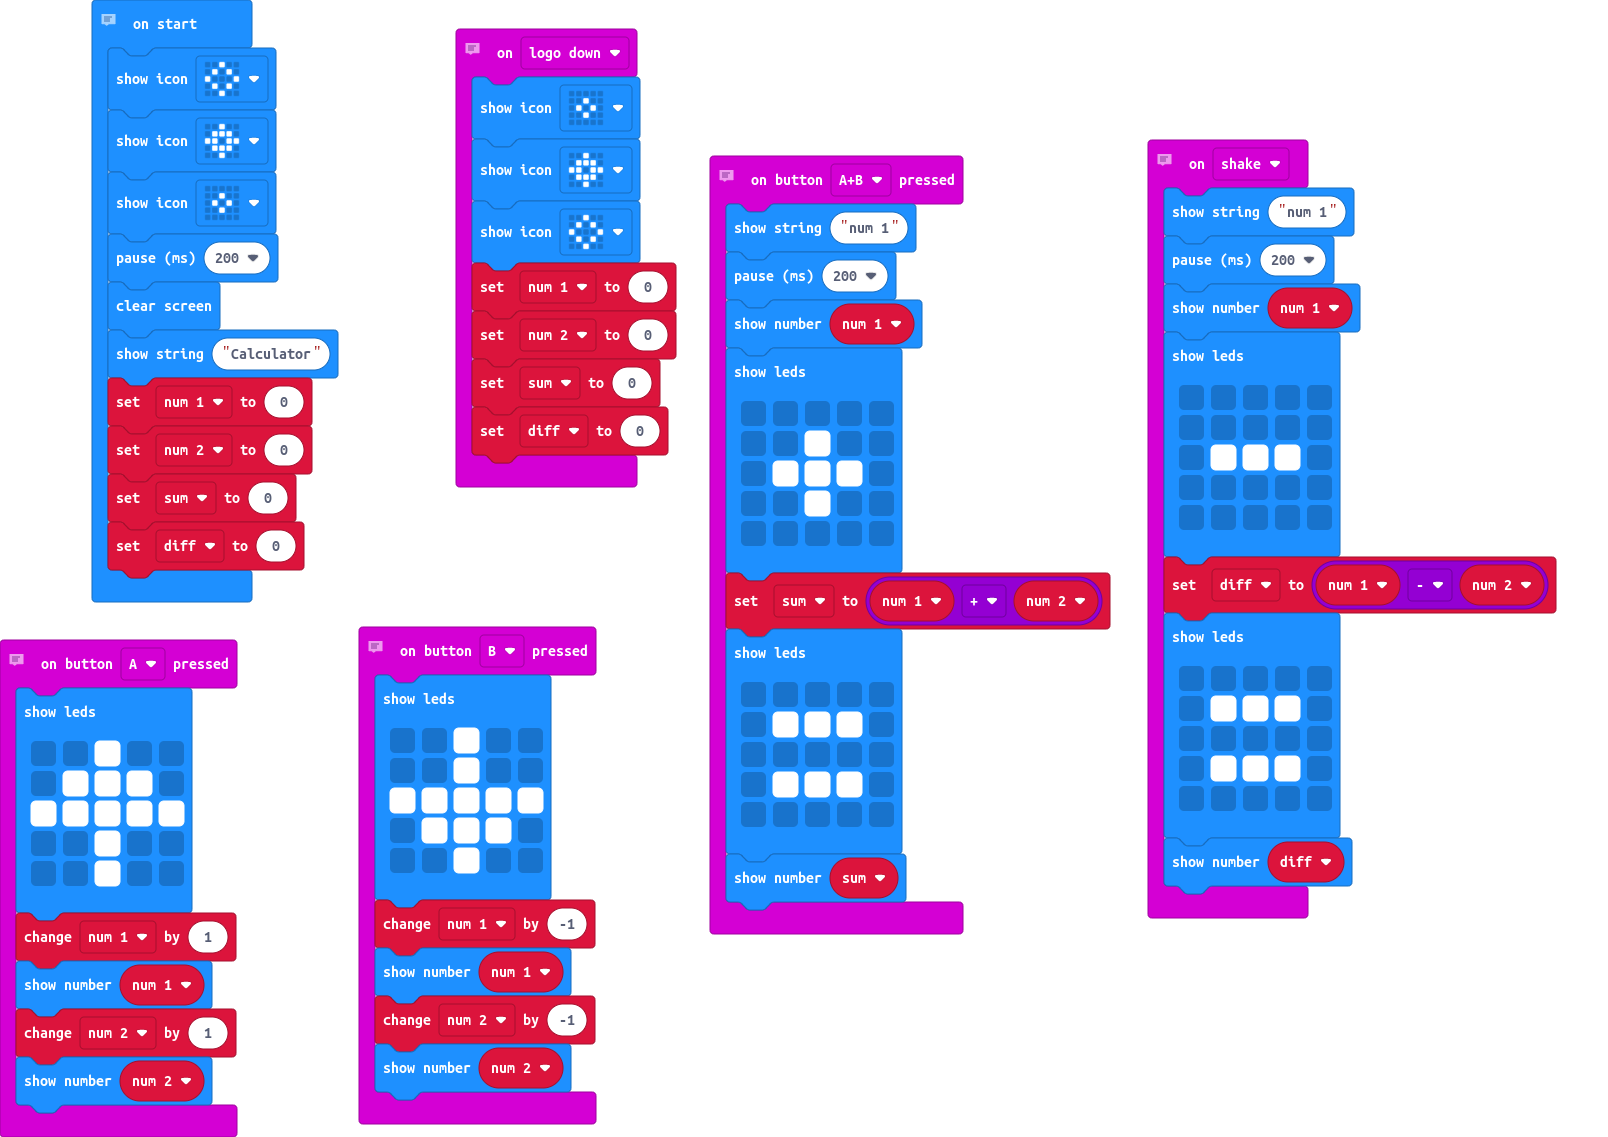
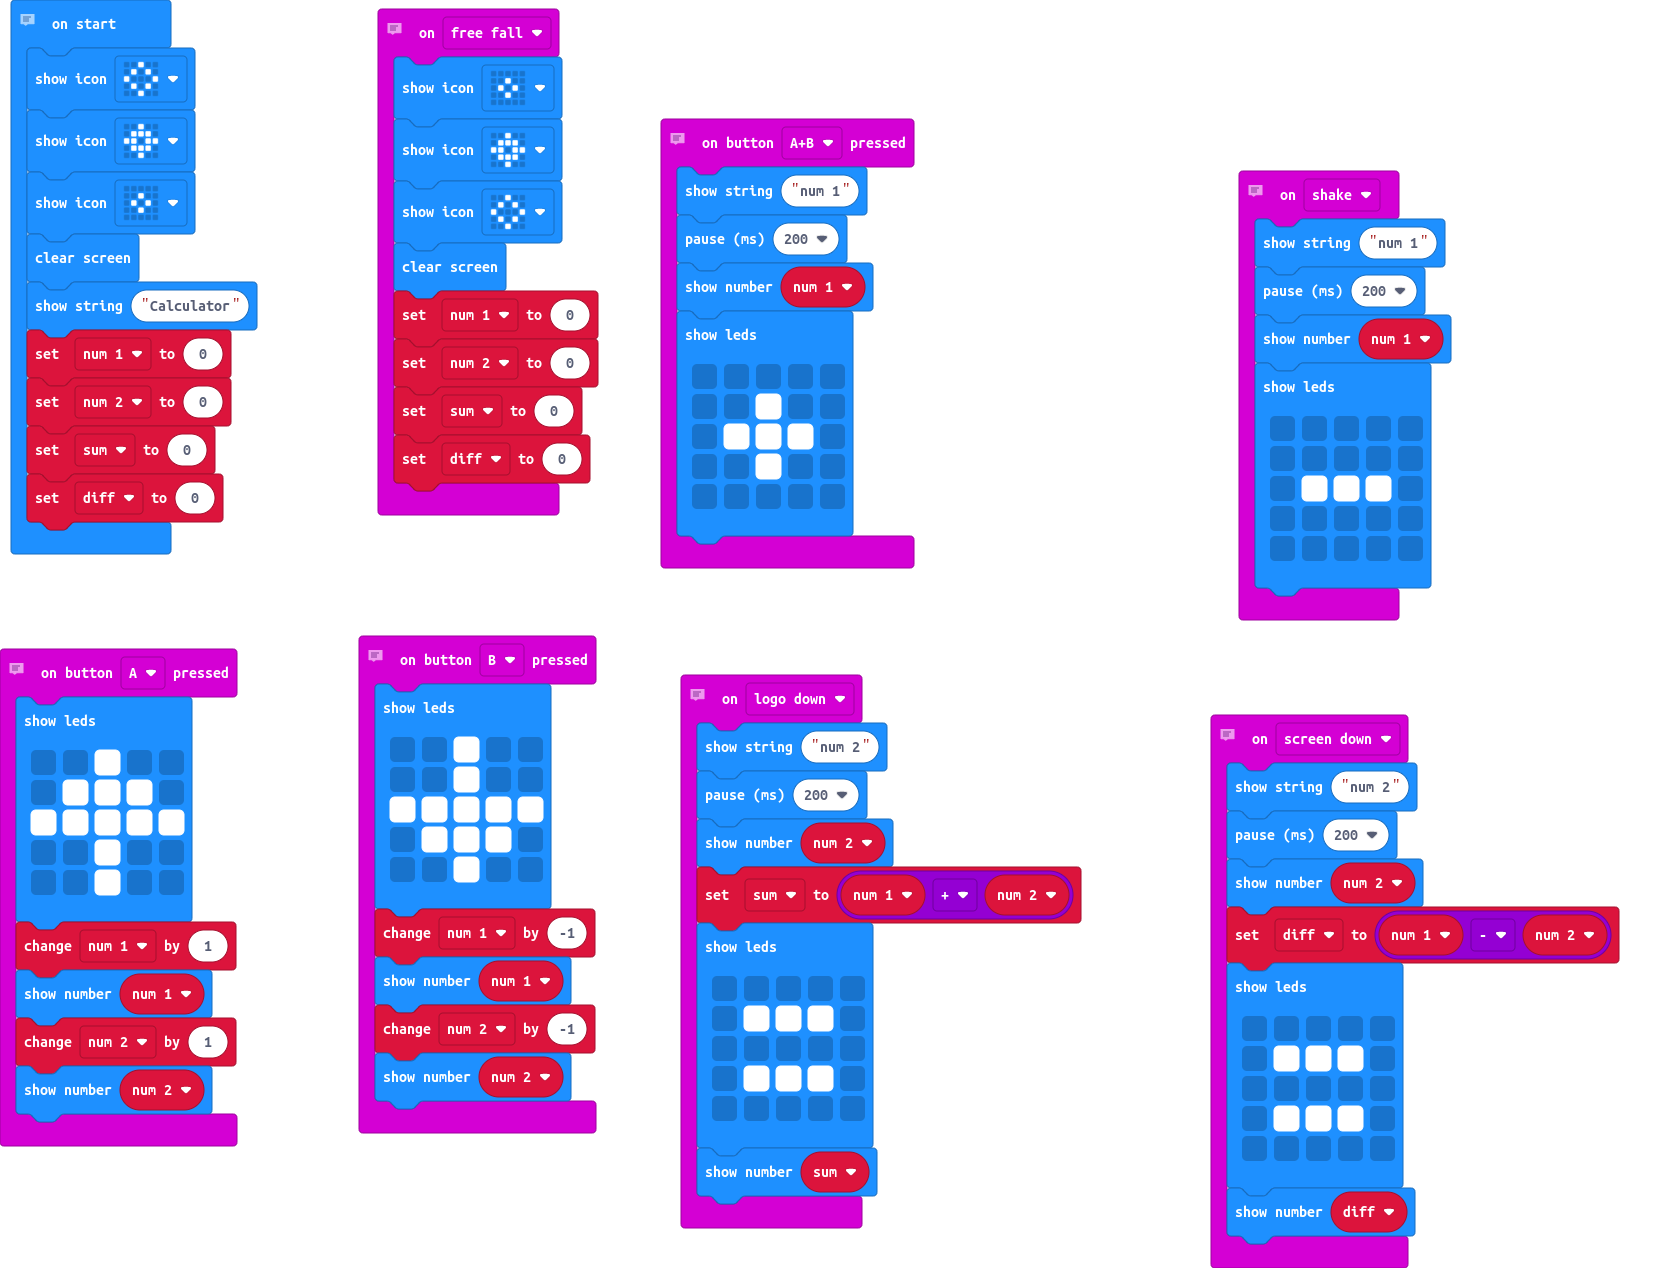
Update main.blocks, main.ts

diff --git a/main.ts b/main.ts
@@ -12,7 +12,33 @@ input.onButtonPressed(Button.A, function () {
     num_2 += 1
     basic.showNumber(num_2)
 })
-// on button A+B, stores 'num 1' then adds 'num 1' with 'num 2'
+// resets program to 0
+input.onGesture(Gesture.FreeFall, function () {
+    basic.showIcon(IconNames.SmallDiamond)
+    basic.showIcon(IconNames.Target)
+    basic.showIcon(IconNames.Diamond)
+    basic.clearScreen()
+    num_1 = 0
+    num_2 = 0
+    sum = 0
+    diff = 0
+})
+// shows 'num 2' then subtracts 'num 1' with 'num 2'
+input.onGesture(Gesture.ScreenDown, function () {
+    basic.showString("num 2")
+    basic.pause(200)
+    basic.showNumber(num_2)
+    diff = num_1 - num_2
+    basic.showLeds(`
+        . . . . .
+        . # # # .
+        . . . . .
+        . # # # .
+        . . . . .
+        `)
+    basic.showNumber(diff)
+})
+// on button A+B, stores 'num 1' 
 input.onButtonPressed(Button.AB, function () {
     basic.showString("num 1")
     basic.pause(200)
@@ -24,15 +50,6 @@ input.onButtonPressed(Button.AB, function () {
         . . # . .
         . . . . .
         `)
-    sum = num_1 + num_2
-    basic.showLeds(`
-        . . . . .
-        . # # # .
-        . . . . .
-        . # # # .
-        . . . . .
-        `)
-    basic.showNumber(sum)
 })
 // on button A, 'num 1' and/or 'num 2' goes up by 1
 input.onButtonPressed(Button.B, function () {
@@ -60,7 +77,13 @@ input.onGesture(Gesture.Shake, function () {
         . . . . .
         . . . . .
         `)
-    diff = num_1 - num_2
+})
+// shows 'num 2' then adds 'num 1' with 'num 2'
+input.onGesture(Gesture.LogoDown, function () {
+    basic.showString("num 2")
+    basic.pause(200)
+    basic.showNumber(num_2)
+    sum = num_1 + num_2
     basic.showLeds(`
         . . . . .
         . # # # .
@@ -68,17 +91,7 @@ input.onGesture(Gesture.Shake, function () {
         . # # # .
         . . . . .
         `)
-    basic.showNumber(diff)
-})
-// resets program to 0
-input.onGesture(Gesture.LogoDown, function () {
-    basic.showIcon(IconNames.SmallDiamond)
-    basic.showIcon(IconNames.Target)
-    basic.showIcon(IconNames.Diamond)
-    num_1 = 0
-    num_2 = 0
-    sum = 0
-    diff = 0
+    basic.showNumber(sum)
 })
 // shows name of program; sets all variables to 0
 let diff = 0
@@ -88,7 +101,6 @@ let num_1 = 0
 basic.showIcon(IconNames.Diamond)
 basic.showIcon(IconNames.Target)
 basic.showIcon(IconNames.SmallDiamond)
-basic.pause(200)
 basic.clearScreen()
 basic.showString("Calculator")
 num_1 = 0
